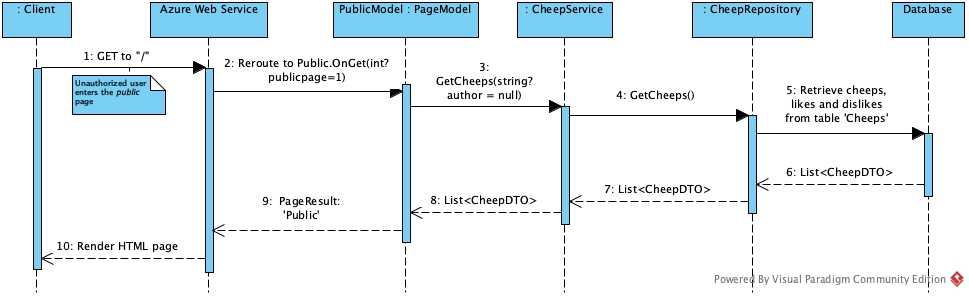
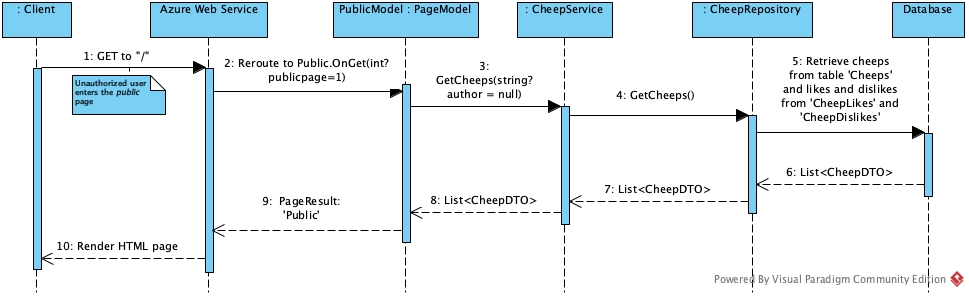
Edit report and add new pics

Changed region(s): [[0.774, 0.1824, 0.9598, 0.4561], [0.4334, 0.2128, 0.5573, 0.3345]]

diff --git a/docs/report.md b/docs/report.md
@@ -143,22 +143,20 @@ The UML sequence diagram below shows the flow of calls and responses that occurs
 the public timeline on the Chirp! web app.
 
 ![Sequence diagram Public](./diagrams/SequenceDiagramPublic.jpg)
-*Although all messages passed along the lifelines are in reality asynchronous,
-they are reflected as being synchronous in the diagrams, as it was not possible to change the look of the arrowheads.*
+Although all messages passed along the lifelines are in reality asynchronous,
+they are reflected as being synchronous in the diagrams, as it was not possible to change the look of the arrowheads.
 
-An initial GET request is rerouted to the Public.OnGet() met within the PageModel. The CheepService the coordinates with
-the CheepRepository to retrieve posts. When *cheeps* are retrieved from the database. Even though unauthorized
-users cannot like nor dislike cheeps, they are still viewable to the logged-out user. Therefore the system also fetches the total
-likes and dislikes
+An initial GET request is rerouted to the Public.OnGet() met within the PageModel. The CheepService then coordinates with
+the CheepRepository to retrieve posts. Even though unauthorized users cannot like nor dislike cheeps, they are still viewable to the logged-out user. 
+Therefore, the system also fetches the total likes and dislikes.
 
-
-When an authorized user interacts with the platform the system logic shifts as the application now has to handle HTTP POST-requests
+When an authorized user interacts with the platform, the system logic shifts as the application now has to handle HTTP POST-requests
 in the following sequence
 
 <br>![Sequence diagram Follow](./diagrams/SequenceDiagramFollow.jpg)
 
-When an auhorized user presses "Follow" the program addresses an HTTP POST request. The AuthorService then verifies the identity of both
-the follower and the target author before adding the new relationship to the database. To ensure integrity of the data the system
+When an auhorized user presses "Follow", the program addresses an HTTP POST request. The AuthorService then verifies the identity of both
+the follower and the target author before adding the new relationship to the database. To ensure integrity of the data, the system
 verifies completion of each task before issuing a 302 REDIRECT, returning the user to the timeline with the newly updated
 social data.
 
